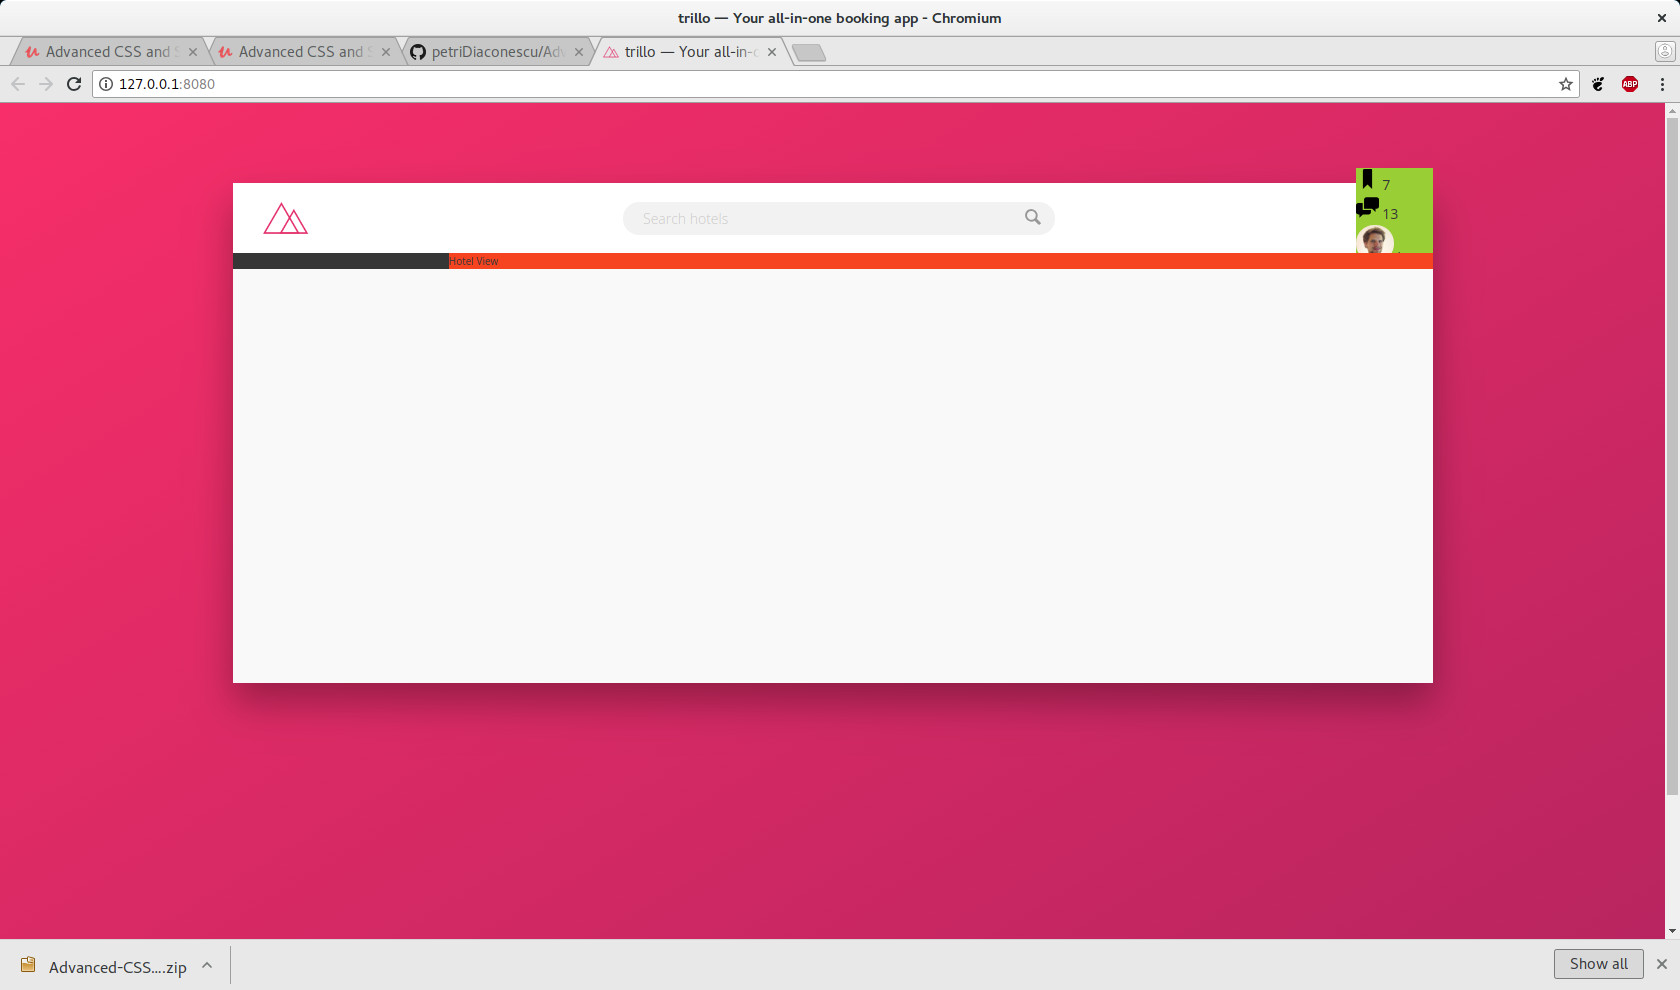
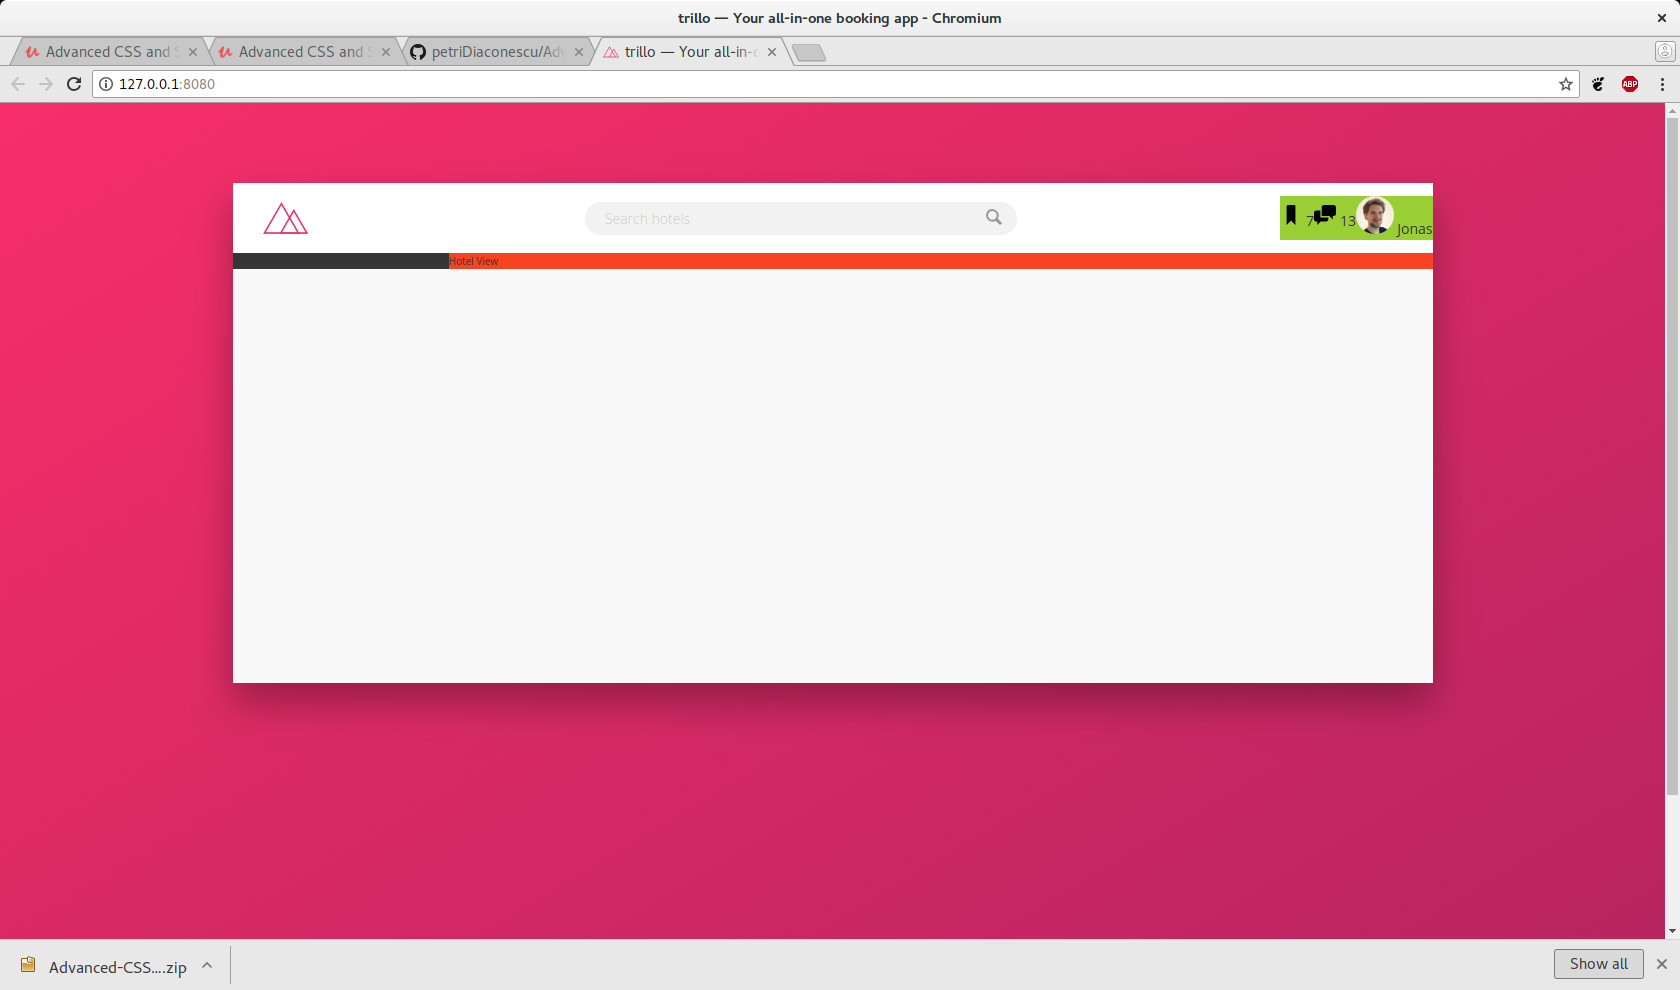
Style user navigation elements.

Changed region(s): [[0.7429, 0.1515, 0.8667, 0.2727], [0.5881, 0.2121, 0.619, 0.2424]]

diff --git a/sass/_components.scss b/sass/_components.scss
@@ -71,6 +71,14 @@
   display: flex;
   align-items: center;
   
+  & > * {
+    padding: 0 2rem;
+    cursor: pointer;
+  }
+  
+  & > *:hover {
+    background-color: var(--color-grey-light-2); 
+  }
   
   &__icon-box {
     
